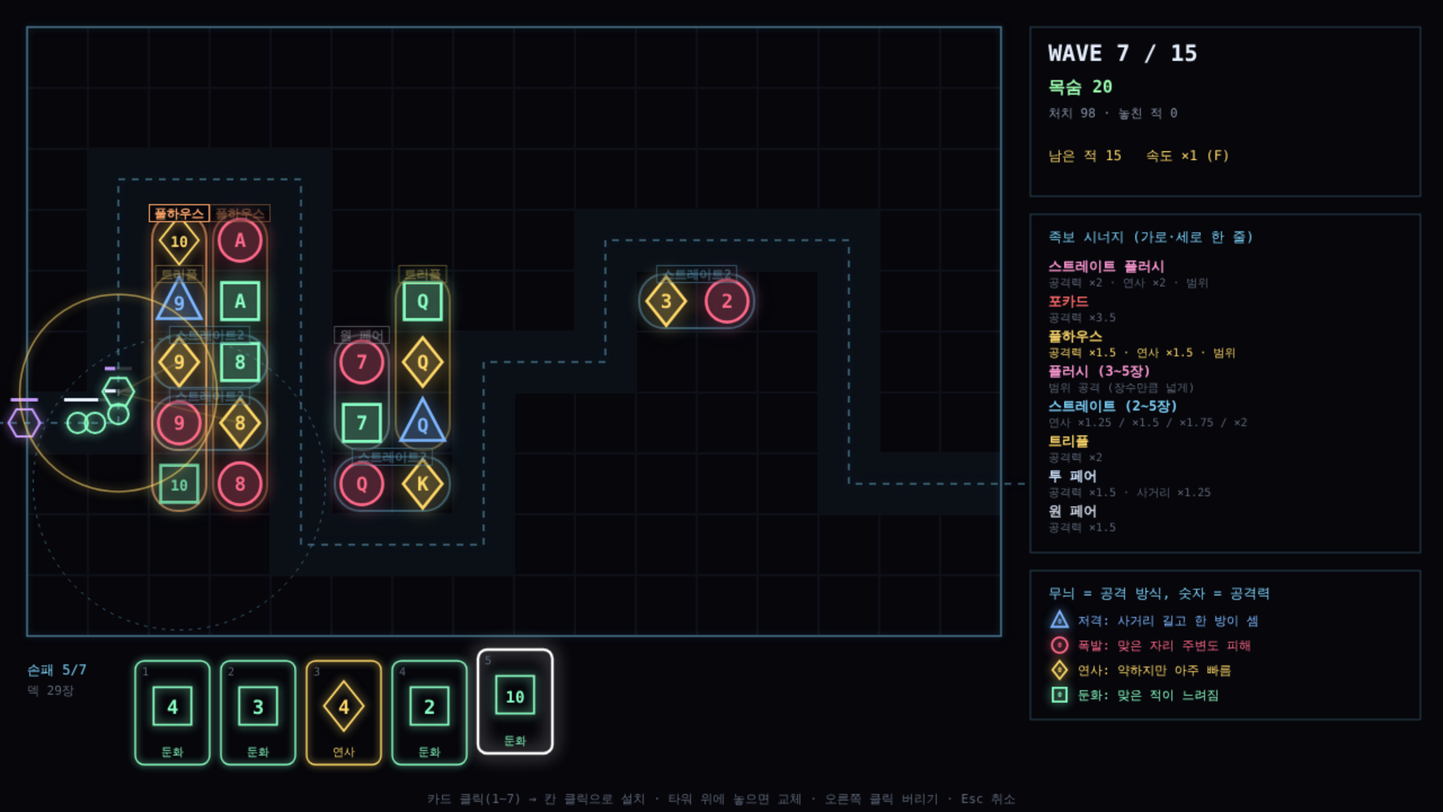
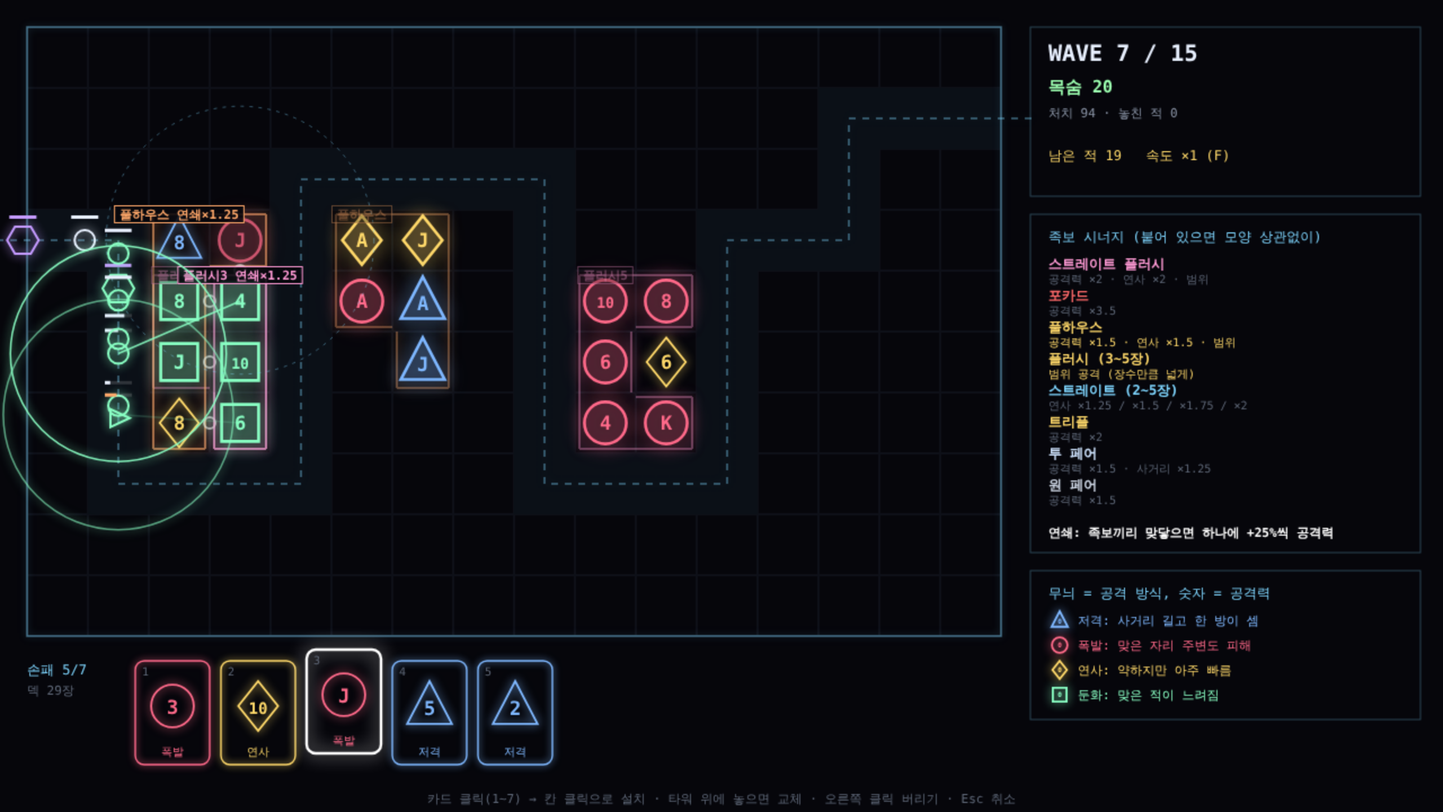
Poker Defense v1.2: shape-free hands and hand chains
- Any 4-connected group of 2-5 towers can form a hand (L, T, ...);
  each tower belongs to one hand, biggest hands picked first
- Touching hands form a chain: +25% damage per hand in the chain
- Hands drawn with cell-shaped outlines, chain links as white rings
- Preview cached per hovered cell; enemy HP growth x1.39 per wave
- Tests for L-shaped flush, chains, full house priority

Claude-Session: https://claude.ai/code/session_016SHfTFKWnAwehWcokYQwXR

diff --git a/prototype/poker-defense/index.html b/prototype/poker-defense/index.html
@@ -20,7 +20,8 @@
 // 포커 디펜스 (가칭) 프로토타입 v1: 핵심 루프만
 //  웨이브 사이에 카드를 뽑는다 → 카드를 맵에 놓아 타워로 세우거나 손에 아껴 둔다 → 웨이브를 막는다
 //  - 카드 한 장 = 타워 하나. 무늬 = 공격 방식, 숫자 = 공격력
-//  - 가로나 세로로 한 줄로 붙은 타워들이 족보가 되면 시너지 (가로·세로 둘 다 걸리면 둘 다 받음)
+//  - 상하좌우로 붙은 타워들이 족보가 되면 시너지 (ㄴ·ㄱ·T 등 모양 상관없음, 타워 하나는 족보 하나에만)
+//  - 족보끼리 맞닿으면 연쇄: 연쇄에 든 족보 수만큼 공격력 +25%씩
 //  - 족보마다 효과가 다르다: 페어 공격력, 스트레이트 연사, 플러시 범위, 풀하우스 범위+연사, 포카드 한 방
 // =====================================================================
 const cv = document.getElementById('c'), g = cv.getContext('2d');
@@ -72,22 +73,48 @@ function windowHands(cards) {
 }
 // 같은 족보라도 장수가 많으면 더 크게 친다 (플러시·스트레이트)
 const handValue = (key, n) => HANDS[key].val + (key === 'flush' || key === 'straight' ? (n - 3) * 22 : 0);
-// 줄(가로·세로)마다 연속된 타워 덩어리 안에서 겹치지 않게 큰 족보부터 고른다
-function synergies(towers) {
-  const lines = [];
-  for (let y = 0; y < ROWS; y++) { let run = []; for (let x = 0; x <= COLS; x++) { const t = towers.get(x + ',' + y); if (t) run.push(t); else { if (run.length >= 2) lines.push(run); run = []; } } }
-  for (let x = 0; x < COLS; x++) { let run = []; for (let y = 0; y <= ROWS; y++) { const t = towers.get(x + ',' + y); if (t) run.push(t); else { if (run.length >= 2) lines.push(run); run = []; } } }
-  const picked = [];
-  for (const run of lines) {
-    const cands = [];
-    for (let i = 0; i < run.length; i++) for (let n = 2; n <= 5 && i + n <= run.length; n++) {
-      const win = run.slice(i, i + n);
-      for (const key of windowHands(win.map(t => t.card))) cands.push({ key, i, n, val: handValue(key, n), towers: win });
+// 상하좌우로 붙은 타워 덩어리 안에서, 서로 붙어 있는 2~5장 묶음(모양 상관없음)을 전부 따져
+// 큰 족보부터 겹치지 않게 고른다. 타워 하나는 족보 하나에만 들어간다.
+const N4 = [[1, 0], [-1, 0], [0, 1], [0, -1]];
+const CHAIN_STEP = 0.25; // 연쇄: 맞닿은 족보 하나마다 공격력 +25%
+function connectedSubsets(list, kmax) {
+  // ESU 방식: 각 묶음을 한 번씩만 만든다 (시작점보다 번호가 큰 칸으로만 넓힘)
+  const idx = new Map(list.map((t, i) => [t.x + ',' + t.y, i]));
+  const nb = list.map(t => N4.map(([dx, dy]) => idx.get((t.x + dx) + ',' + (t.y + dy))).filter(v => v !== undefined));
+  const out = [];
+  function extend(sub, subSet, ext, v) {
+    if (sub.length >= 2) out.push(sub.slice());
+    if (sub.length === kmax) return;
+    const e = ext.slice();
+    while (e.length) {
+      const w = e.pop(); const nsub = sub.concat(w), nset = new Set(subSet); nset.add(w);
+      const near = new Set(); sub.forEach(u => nb[u].forEach(z => near.add(z)));
+      const next = e.concat(nb[w].filter(u => u > v && !nset.has(u) && !near.has(u) && !e.includes(u)));
+      extend(nsub, nset, next, v);
     }
+  }
+  for (let v = 0; v < list.length; v++) extend([v], new Set([v]), nb[v].filter(u => u > v), v);
+  return out.map(sub => sub.map(i => list[i]));
+}
+function synergies(towers) {
+  const seen = new Set(), picked = [];
+  for (const t0 of towers.values()) {
+    if (seen.has(t0)) continue;
+    const comp = [], st = [t0]; seen.add(t0);
+    while (st.length) { const t = st.pop(); comp.push(t); for (const [dx, dy] of N4) { const n = towers.get((t.x + dx) + ',' + (t.y + dy)); if (n && !seen.has(n)) { seen.add(n); st.push(n); } } }
+    if (comp.length < 2) continue;
+    const cands = [];
+    for (const grp of connectedSubsets(comp, 5)) for (const key of windowHands(grp.map(t => t.card))) cands.push({ key, n: grp.length, val: handValue(key, grp.length), towers: grp });
     cands.sort((a, b) => b.val - a.val || b.n - a.n);
     const used = new Set();
     for (const c of cands) { if (c.towers.some(t => used.has(t))) continue; c.towers.forEach(t => used.add(t)); picked.push(c); }
   }
+  // 연쇄: 족보끼리 맞닿아 있으면 하나의 연쇄 (가로세로 퍼즐처럼)
+  const owner = new Map(); picked.forEach((s, i) => s.towers.forEach(t => owner.set(t.x + ',' + t.y, i)));
+  const adj = picked.map(() => new Set()); picked.forEach((s, i) => s.towers.forEach(t => N4.forEach(([dx, dy]) => { const j = owner.get((t.x + dx) + ',' + (t.y + dy)); if (j !== undefined && j !== i) adj[i].add(j); })));
+  const chainOf = picked.map(() => -1); let cid = 0;
+  picked.forEach((_, i) => { if (chainOf[i] >= 0) return; const st = [i], mem = []; chainOf[i] = cid; while (st.length) { const k = st.pop(); mem.push(k); adj[k].forEach(j => { if (chainOf[j] < 0) { chainOf[j] = cid; st.push(j); } }); } mem.forEach(k => { picked[k].chain = mem.length; picked[k].chainId = cid; }); cid++; });
+  picked.forEach((s, i) => s.links = [...adj[i]].filter(j => j > i).map(j => picked[j]));
   return picked;
 }
 function applyEffects(towers) {
@@ -105,6 +132,7 @@ function applyEffects(towers) {
       case 'four': e.dmg *= 3.5; break;
       case 'straightFlush': e.dmg *= 2; e.rate *= 2; e.splash = Math.max(e.splash, 2); break;
     }
+    if (s.chain >= 2) { e.dmg *= 1 + CHAIN_STEP * (s.chain - 1); e.chain = s.chain; }
   }
   return syn;
 }
@@ -157,7 +185,7 @@ function newGame(start = false) {
 }
 function draw(n) { let got = 0; while (got < n && S.hand.length < HAND_MAX && S.deck.length) { S.hand.push(S.deck.pop()); got++; } return got; }
 function waveSpec(w) {
-  const list = [], hp = 26 * Math.pow(1.35, w - 1), n = 8 + w * 2;
+  const list = [], hp = 26 * Math.pow(1.39, w - 1), n = 8 + w * 2;
   for (let i = 0; i < n; i++) {
     let type = 'normal';
     if (w >= 3 && i % 4 === 3) type = 'fast';
@@ -182,7 +210,7 @@ function place(handIdx, x, y) {
   const key = x + ',' + y, old = S.towers.get(key), card = S.hand.splice(handIdx, 1)[0];
   if (old) { S.discarded++; popText(`${RANK_TXT(old.card.r)}${old.card.s} 교체`, ...center(x, y), '#8a94a6'); }
   const before = new Set(S.syn.map(s => s.key + s.towers.map(t => t.x + ',' + t.y).join()));
-  S.towers.set(key, { card, x, y, cd: 0, eff: null });
+  S.towers.set(key, { card, x, y, cd: 0, eff: null }); S.version = (S.version || 0) + 1;
   S.syn = applyEffects(S.towers);
   const fresh = S.syn.filter(s => !before.has(s.key + s.towers.map(t => t.x + ',' + t.y).join()) && s.towers.some(t => t.x === x && t.y === y));
   if (fresh.length) { const best = fresh.sort((a, b) => b.val - a.val)[0]; const [cx, cy] = midOf(best); popText(`${HANDS[best.key].name}${best.key === 'flush' || best.key === 'straight' ? ' ' + best.n : ''}!`, cx, cy - 18, HANDS[best.key].col, true);
@@ -245,20 +273,30 @@ function cardShape(card, cx, cy, r, o = {}) {
   text(RANK_TXT(card.r), cx, cy + (s.shape === 'tri' ? r * .38 : r * .3), s.col, Math.round(r * (card.r === 10 ? .62 : .78)), 'center', 'bold');
   g.globalAlpha = 1;
 }
-// 족보에 든 연속 칸들을 둥근 테두리 하나로 감싼다 (도형 안 숫자를 가리지 않게)
+// 족보에 든 칸들을 모양대로 감싼다: 바깥쪽 변에만 선 (도형 안 숫자를 가리지 않게)
 function drawSynLine(s, alpha = 1) {
-  const h = HANDS[s.key], xs = s.towers.map(t => t.x), ys = s.towers.map(t => t.y);
-  const x0 = FX + Math.min(...xs) * CS + 3, y0 = FY + Math.min(...ys) * CS + 3, w = (Math.max(...xs) - Math.min(...xs) + 1) * CS - 6, hh = (Math.max(...ys) - Math.min(...ys) + 1) * CS - 6;
-  g.globalAlpha = alpha; g.beginPath(); if (g.roundRect) g.roundRect(x0, y0, w, hh, CS * .42); else g.rect(x0, y0, w, hh);
-  g.shadowBlur = 0; g.fillStyle = h.col; g.globalAlpha = alpha * .07; g.fill();
-  g.globalAlpha = alpha; g.lineWidth = 2; glow(h.col, 10); g.stroke();
+  const h = HANDS[s.key], has = new Set(s.towers.map(t => t.x + ',' + t.y)), m = 4;
+  g.globalAlpha = alpha; g.lineWidth = 2; glow(h.col, 10); g.beginPath();
+  for (const t of s.towers) {
+    const L = !has.has((t.x - 1) + ',' + t.y), R = !has.has((t.x + 1) + ',' + t.y), U = !has.has(t.x + ',' + (t.y - 1)), D = !has.has(t.x + ',' + (t.y + 1));
+    const x0 = FX + t.x * CS + (L ? m : 0), x1 = FX + (t.x + 1) * CS - (R ? m : 0), y0 = FY + t.y * CS + (U ? m : 0), y1 = FY + (t.y + 1) * CS - (D ? m : 0);
+    g.save(); g.shadowBlur = 0; g.globalAlpha = alpha * .07; g.fillStyle = h.col; g.fillRect(x0, y0, x1 - x0, y1 - y0); g.restore();
+    if (U) { g.moveTo(x0, y0); g.lineTo(x1, y0); } if (D) { g.moveTo(x0, y1); g.lineTo(x1, y1); }
+    if (L) { g.moveTo(x0, y0); g.lineTo(x0, y1); } if (R) { g.moveTo(x1, y0); g.lineTo(x1, y1); }
+  }
+  g.stroke();
+  // 연쇄 연결 표시: 맞닿은 족보 사이 경계에 흰 고리
+  for (const o of s.links || []) for (const t of s.towers) for (const u of o.towers) if (Math.abs(t.x - u.x) + Math.abs(t.y - u.y) === 1) {
+    const [ax, ay] = center(t.x, t.y), [bx, by] = center(u.x, u.y), mx = (ax + bx) / 2, my = (ay + by) / 2;
+    g.lineWidth = 2; glow('#ffffff', 12); g.beginPath(); g.arc(mx, my, 5, 0, Math.PI * 2); g.stroke();
+  }
   g.globalAlpha = 1;
 }
 // 족보 이름표: 칸 가장자리에 어두운 바탕으로 (타워 위에 그려 읽기 쉽게)
 function drawSynBadge(s, alpha = 1) {
   // 테두리 위쪽 가장자리 가운데에 붙인다 (옆 줄을 가리지 않게)
-  const h = HANDS[s.key], mx = midOf(s)[0], top = FY + Math.min(...s.towers.map(t => t.y)) * CS + 3;
-  const label = `${h.name}${s.key === 'flush' || s.key === 'straight' ? s.n : ''}`;
+  const topT = s.towers.reduce((a, t) => t.y < a.y || (t.y === a.y && t.x < a.x) ? t : a), mx = center(topT.x, topT.y)[0], top = FY + topT.y * CS + 4, h = HANDS[s.key];
+  const label = `${h.name}${s.key === 'flush' || s.key === 'straight' ? s.n : ''}${s.chain >= 2 ? ` 연쇄×${1 + CHAIN_STEP * (s.chain - 1)}` : ''}`;
   g.font = 'bold 11px "DejaVu Sans Mono", "Noto Sans KR", monospace'; const w = g.measureText(label).width + 10, hh = 16;
   const bx = mx - w / 2, by = top - hh / 2;
   g.globalAlpha = alpha; g.shadowBlur = 0; g.fillStyle = 'rgba(6,6,11,.88)'; g.fillRect(bx, by, w, hh); g.strokeStyle = h.col; g.lineWidth = 1; g.strokeRect(bx + .5, by + .5, w - 1, hh - 1);
@@ -275,8 +313,14 @@ function render() {
   // 미리보기: 고른 카드를 마우스 칸에 놓으면
   let pvSyn = null, pvTower = null;
   if (S.sel >= 0 && S.hover && buildable(S.hover.x, S.hover.y) && S.phase !== 'title') {
-    const tw = new Map(S.towers); pvTower = { card: S.hand[S.sel], x: S.hover.x, y: S.hover.y }; tw.set(S.hover.x + ',' + S.hover.y, pvTower);
-    pvSyn = applyEffects(new Map([...tw].map(([k, t]) => [k, { ...t }]))).filter(s => s.towers.some(t => t.x === S.hover.x && t.y === S.hover.y));
+    pvTower = { card: S.hand[S.sel], x: S.hover.x, y: S.hover.y };
+    const key = `${S.version}|${S.sel}|${S.hand.length}|${S.hover.x},${S.hover.y}`;
+    if (S.pvKey !== key) { // 마우스가 칸을 옮길 때만 다시 계산
+      const tw = new Map([...S.towers].map(([k, t]) => [k, { ...t }])); tw.set(S.hover.x + ',' + S.hover.y, { ...pvTower });
+      const all = applyEffects(tw), mine = all.filter(s => s.towers.some(t => t.x === S.hover.x && t.y === S.hover.y));
+      const chainIds = new Set(mine.map(s => s.chainId)); S.pvKey = key; S.pvSyn = all.filter(s => chainIds.has(s.chainId));
+    }
+    pvSyn = S.pvSyn;
   }
   // 시너지 선
   S.syn.forEach(s => drawSynLine(s, pvSyn && pvSyn.length ? .35 : 1));
@@ -321,16 +365,17 @@ function render() {
   text(`처치 ${S.kills} · 놓친 적 ${S.leaks}`, RX + 16, FY + 80, '#8a94a6', 11);
   if (S.phase === 'build') { const bx = RX + 16, by = FY + 96, on = (S.now * 2 | 0) % 2; g.lineWidth = 1.6; glow('#9cffb0', on ? 14 : 6); g.strokeRect(bx, by, 200, 38); text(`웨이브 ${S.wave + 1} 시작 (Space)`, bx + 100, by + 25, '#9cffb0', 13, 'center', 'bold'); }
   else if (S.phase === 'wave') text(`남은 적 ${S.enemies.length + S.spawn.length}   속도 ×${S.speed} (F)`, RX + 16, FY + 118, '#ffd96a', 12);
-  panel(RX, FY + 166, W - RX - 20, 300); text('족보 시너지 (가로·세로 한 줄)', RX + 16, FY + 190, '#7fd6ff', 12);
+  panel(RX, FY + 166, W - RX - 20, 300); text('족보 시너지 (붙어 있으면 모양 상관없이)', RX + 16, FY + 190, '#7fd6ff', 12);
   const pvKeys = new Set((pvSyn || []).map(s => s.key));
-  HAND_ORDER.forEach((k, i) => { const h = HANDS[k], y = FY + 216 + i * 31, on = pvKeys.has(k);
-    text(h.name + (k === 'flush' ? ' (3~5장)' : k === 'straight' ? ' (2~5장)' : ''), RX + 16, y, on ? '#ffd96a' : h.col, 12, 'left', 'bold'); text(h.eff, RX + 16, y + 14, on ? '#ffd96a' : '#5f6878', 10); });
+  HAND_ORDER.forEach((k, i) => { const h = HANDS[k], y = FY + 214 + i * 28, on = pvKeys.has(k);
+    text(h.name + (k === 'flush' ? ' (3~5장)' : k === 'straight' ? ' (2~5장)' : ''), RX + 16, y, on ? '#ffd96a' : h.col, 12, 'left', 'bold'); text(h.eff, RX + 16, y + 13, on ? '#ffd96a' : '#5f6878', 10); });
+  text(`연쇄: 족보끼리 맞닿으면 하나에 +${CHAIN_STEP * 100}%씩 공격력`, RX + 16, FY + 452, '#ffffff', 11, 'left', 'bold');
   panel(RX, FY + 482, W - RX - 20, 132); text('무늬 = 공격 방식, 숫자 = 공격력', RX + 16, FY + 506, '#7fd6ff', 12);
   SUITS.forEach((s, i) => { const y = FY + 530 + i * 22; cardShape({ r: 0, s }, RX + 26, y - 4, 8); text(`${SUIT[s].name}: ${SUIT[s].desc}`, RX + 42, y, SUIT[s].col, 11); });
   text('카드 클릭(1~7) → 칸 클릭으로 설치 · 타워 위에 놓으면 교체 · 오른쪽 클릭 버리기 · Esc 취소', W / 2, H - 8, '#5f6878', 11, 'center');
 
   const overlay = (title, col, lines, foot) => { g.fillStyle = 'rgba(6,6,11,.88)'; g.fillRect(0, 0, W, H); text(title, W / 2, 240, col, 34, 'center', 'bold'); lines.forEach((l, i) => text(l, W / 2, 290 + i * 26, '#cfd8e6', 14, 'center')); text(foot, W / 2, 300 + lines.length * 26 + 50, '#ffd96a', 18, 'center'); };
-  if (S.phase === 'title') overlay('POKER DEFENSE', '#7fd6ff', ['카드 한 장이 타워 하나. 무늬는 공격 방식, 숫자는 공격력', '가로나 세로로 한 줄로 붙은 타워들이 포커 족보가 되면 시너지가 생긴다', `웨이브를 막을 때마다 카드 ${DRAW_PER_WAVE}장. 지금 놓을지, 아껴서 큰 족보를 노릴지!`], 'Enter 키 또는 화면을 눌러 시작');
+  if (S.phase === 'title') overlay('POKER DEFENSE', '#7fd6ff', ['카드 한 장이 타워 하나. 무늬는 공격 방식, 숫자는 공격력', '붙어 있는 타워들이 포커 족보가 되면 시너지 (모양 상관없이). 족보끼리 맞닿으면 연쇄 보너스', `웨이브를 막을 때마다 카드 ${DRAW_PER_WAVE}장. 지금 놓을지, 아껴서 큰 족보를 노릴지!`], 'Enter 키 또는 화면을 눌러 시작');
   else if (S.phase === 'over') overlay('GAME OVER', '#ff6a6a', [`웨이브 ${S.wave}에서 무너졌다 · 처치 ${S.kills}`], 'R 키 또는 화면을 눌러 다시');
   else if (S.phase === 'win') overlay('ALL CLEAR', '#ffd96a', [`${WAVES} 웨이브를 모두 막았다 · 남은 목숨 ${S.lives} · 처치 ${S.kills}`], 'R 키 또는 화면을 눌러 다시');
 }

diff --git a/prototype/poker-defense/test.js b/prototype/poker-defense/test.js
@@ -1,5 +1,5 @@
 // 실행: node prototype/poker-defense/test.js "$(pwd)/prototype/poker-defense/index.html" [봇 판 수]
-// 족보 판정, 줄 시너지(가로·세로 겹침, 큰 족보 우선), 설치·교체, 봇 시험
+// 족보 판정, 붙은 모양 시너지(ㄴ자), 연쇄, 큰 족보 우선, 설치·교체, 무작위 길, 봇 시험
 // 봇: 손패를 전부, 길을 많이 덮고 시너지가 커지는 자리에 하나씩 놓는다 (아끼지 않음)
 // 4번째 인자 dumb: 족보를 생각하지 않고 길 근처 빈칸에 아무렇게나 놓는 봇 (비교용)
 const { chromium } = require('playwright');
@@ -26,11 +26,20 @@ const { chromium } = require('playwright');
     t('포카드', [c(5), c(5, '♥'), c(5, '♦'), c(5, '♣')], 'four');
     t('풀하우스', [c(5), c(9, '♥'), c(5, '♦'), c(9), c(5, '♣')], 'fullHouse');
     t('스트레이트 플러시', [c(5), c(6), c(7), c(8), c(9)], 'flush,straight,straightFlush');
-    // 줄 시너지: 가로 페어 + 세로 플러시가 한 타워에서 겹친다
-    const tw = new Map(); const put = (x, y, card) => tw.set(x + ',' + y, { card, x, y });
-    put(0, 0, c(7, '♥')); put(1, 0, c(7, '♠')); put(0, 1, c(2, '♥')); put(0, 2, c(11, '♥'));
-    const syn = A.applyEffects(tw); const corner = tw.get('0,0');
-    const crossOk = syn.length === 2 && corner.eff.hands.sort().join() === 'flush,pair' && corner.eff.dmg === 1.5 && corner.eff.splash === 1.25;
+    // ㄴ자 플러시: 하트 3장이 꺾여 붙어도 플러시
+    const tw = new Map(); const put = (m, x, y, card) => m.set(x + ',' + y, { card, x, y });
+    put(tw, 0, 0, c(7, '♥')); put(tw, 0, 1, c(2, '♥')); put(tw, 1, 1, c(11, '♥'));
+    const lOk = A.applyEffects(tw).map(s => s.key + s.n).join() === 'flush3';
+    // 연쇄: 스트레이트(7 8)와 트리플(5 5 5)이 맞닿으면 둘 다 연쇄 2 → 공격력 ×1.25 추가
+    // (7 7 5 5 5 였다면 풀하우스 하나가 더 크므로 그것을 고른다)
+    const tc = new Map(); put(tc, 0, 3, c(7)); put(tc, 1, 3, c(8, '♥')); put(tc, 2, 3, c(5)); put(tc, 3, 3, c(5, '♥')); put(tc, 4, 3, c(5, '♦'));
+    const syn2 = A.applyEffects(tc);
+    const fh = new Map(); put(fh, 0, 3, c(7)); put(fh, 1, 3, c(7, '♥')); put(fh, 2, 3, c(5)); put(fh, 3, 3, c(5, '♥')); put(fh, 4, 3, c(5, '♦'));
+    const crossOk = syn2.length === 2 && syn2.every(s => s.chain === 2) && tc.get('0,3').eff.dmg === 1.25 && tc.get('4,3').eff.dmg === 2 * 1.25
+      && A.applyEffects(fh).map(s => s.key).join() === 'fullHouse';
+    // 떨어져 있으면 연쇄 아님
+    const td = new Map(); put(td, 0, 6, c(7)); put(td, 1, 6, c(7, '♥')); put(td, 3, 6, c(5)); put(td, 4, 6, c(5, '♥'));
+    const noChainOk = A.applyEffects(td).every(s => s.chain === 1);
     // 큰 족보 우선: 7 7 7 이 한 줄이면 페어가 아니라 트리플
     const tw2 = new Map(); [0, 1, 2].forEach(x => tw2.set(x + ',5', { card: c(7, ['♠', '♥', '♦'][x]), x, y: 5 }));
     const tripleOk = A.applyEffects(tw2).map(s => s.key).join() === 'triple';
@@ -58,7 +67,11 @@ const { chromium } = require('playwright');
         }
         while (gg.hand.length) {
           let best = null;
-          for (let i = 0; i < gg.hand.length; i++) for (const [x, y] of cells) { if (gg.towers.has(x + ',' + y)) continue;
+          const free = cells.filter(([x, y]) => !gg.towers.has(x + ',' + y));
+          const nearT = free.filter(([x, y]) => [[1, 0], [-1, 0], [0, 1], [0, -1]].some(([dx, dy]) => gg.towers.has((x + dx) + ',' + (y + dy))));
+          const topCov = free.slice().sort((a, b) => coverage(b[0], b[1], 2.4) - coverage(a[0], a[1], 2.4)).slice(0, 14);
+          const cand = [...new Set([...nearT, ...topCov])];
+          for (let i = 0; i < gg.hand.length; i++) for (const [x, y] of cand) {
             const tw3 = new Map([...gg.towers].map(([k, v]) => [k, { ...v }])); tw3.set(x + ',' + y, { card: gg.hand[i], x, y }); const v = power(tw3); if (!best || v > best.v) best = { v, i, x, y }; }
           if (!best) break; A.place(best.i, best.x, best.y);
         }
@@ -67,7 +80,7 @@ const { chromium } = require('playwright');
       res.push({ wave: gg.phase === 'win' ? 16 : gg.wave, lives: gg.lives, towers: gg.towers.size, hands: gg.syn.map(s => s.key) });
     }
     const hist = {}; res.forEach(x => hist[x.wave] = (hist[x.wave] || 0) + 1);
-    return { cases, allOk: cases.every(x => x.ok), pathOk, crossOk, tripleOk, placeOk, replaceOk, bot: { reachedWave: hist, avgLives: Math.round(res.reduce((a, x) => a + x.lives, 0) / res.length * 10) / 10, sampleHands: res[0].hands } };
+    return { cases, allOk: cases.every(x => x.ok), pathOk, lOk, crossOk, noChainOk, tripleOk, placeOk, replaceOk, bot: { reachedWave: hist, avgLives: Math.round(res.reduce((a, x) => a + x.lives, 0) / res.length * 10) / 10, sampleHands: res[0].hands } };
   }, [+(process.argv[3] || 10), process.argv[4] === 'dumb']);
   console.log(JSON.stringify({ ...out, cases: out.cases.filter(x => !x.ok) }, null, 1)); console.log('errors:', errors.length ? errors : 'none'); await b.close();
 })();

diff --git a/prototype/poker-defense/README.md b/prototype/poker-defense/README.md
@@ -3,12 +3,13 @@
 카드로 타워를 세우는 디펜스. 핵심 루프만 만든 첫 프로토타입이다. 기획 메모는 [docs/14-poker-defense.md](../../docs/14-poker-defense.md).
 
 - 카드 한 장 = 타워 하나. **무늬 = 공격 방식, 숫자 = 공격력** (2~10, J Q K A = 11~14)
-- **가로나 세로로 한 줄로 붙은 타워들**이 포커 족보가 되면 시너지. 가로·세로 둘 다 걸리면 효과를 둘 다 받는다
+- **상하좌우로 붙어 있는 타워들**이 포커 족보가 되면 시너지 (ㄴ·ㄱ·T자 등 모양 상관없음). 타워 하나는 족보 하나에만 들어간다
+- **연쇄**: 족보끼리 맞닿아 있으면 하나의 연쇄. 연쇄에 든 족보 수만큼 공격력 +25%씩 (2개 ×1.25, 3개 ×1.5 ...)
 - 웨이브를 막을 때마다 카드 3장 (처음 5장, 손패 최대 7장, 덱 52장)
 - 카드를 지금 놓을지, 손에 들고 큰 족보를 노릴지 고른다. 타워 위에 놓으면 교체 (원래 카드는 버려짐)
 - 15웨이브, 목숨 20. 5·10·15웨이브는 보스
 - **길은 판마다 무작위** (왼쪽에서 들어와 오른쪽으로 나가는 지그재그, 길이 34~46칸)
-- 족보에 든 타워들은 둥근 테두리로 묶어 보여 준다
+- 족보에 든 칸은 모양대로 테두리, 맞닿은 족보 사이에는 흰 고리(연쇄)
 
 ![포커 디펜스](../../docs/images/prototype-poker-defense.png)
 
@@ -20,7 +21,7 @@
 | ♦ | 노란 마름모 | 연사: 약하지만 아주 빠름 |
 | ♣ | 초록 사각형 | 둔화: 맞은 적이 느려짐 |
 
-## 족보 = 시너지 (한 줄 안의 연속 2~5장, 순서 상관없음)
+## 족보 = 시너지 (붙어 있는 2~5장, 모양·순서 상관없음)
 | 족보 | 장수 | 효과 |
 |---|---|---|
 | 원 페어 | 2 | 공격력 ×1.5 |
@@ -32,7 +33,7 @@
 | 포카드 | 4 | 공격력 ×3.5 |
 | 스트레이트 플러시 | 5 | 공격력 ×2, 연사 ×2, 범위 |
 
-한 줄에 여러 족보가 가능하면 큰 족보부터 겹치지 않게 고른다. A는 A-2-3, Q-K-A 둘 다 스트레이트.
+붙은 덩어리 안에서 큰 족보부터 겹치지 않게 고른다 (7 7 5 5 5 는 페어+트리플이 아니라 풀하우스). A는 A-2-3, Q-K-A 둘 다 스트레이트.
 
 ## 조작
 | 입력 | 동작 |
@@ -45,12 +46,12 @@
 | Esc / M | 취소 / 소리 |
 
 ## 시험
-`test.js`: 족보 판정 14가지, 무작위 길 200개 검사, 가로·세로 겹침, 큰 족보 우선, 설치·교체, 봇 시험.
+`test.js`: 족보 판정 14가지, 무작위 길 200개 검사, ㄴ자 족보, 연쇄(맞닿음/떨어짐), 큰 족보 우선, 설치·교체, 봇 시험.
 
 | 봇 (10판, 무작위 길) | 결과 |
 |---|---|
-| 족보를 생각하는 봇 (손패를 전부, 길을 많이 덮고 시너지가 커지는 자리에) | 6판 통과, 4판 15웨이브에서 실패, 남은 목숨 평균 6.9 |
-| 족보를 생각 안 하는 봇 (길 근처 아무 칸) | 11웨이브 6판, 12웨이브 4판에서 실패 |
+| 족보를 생각하는 봇 (손패를 전부, 길을 많이 덮고 시너지가 커지는 자리에) | 5판 통과, 3판 15웨이브, 1판 14, 1판 13에서 실패, 남은 목숨 평균 5 |
+| 족보를 생각 안 하는 봇 (길 근처 아무 칸) | 10웨이브 3판, 11웨이브 7판에서 실패 |
 
 족보를 생각하느냐에 따라 결과가 갈린다. 봇은 카드를 아끼지 않고 바로 놓는다.
 효과음은 테트리스 포커와 같은 합성음(`../tetris-poker/sounds.js`).

diff --git a/docs/14-poker-defense.md b/docs/14-poker-defense.md
@@ -31,8 +31,8 @@
 | 미정 사항 | v1 기본값 | 이유 |
 |---|---|---|
 | 시너지 단위 | 카드 한 장 = 타워 + 인접 시너지 | 메모 추천안 |
-| 인접 판정 | 가로·세로 한 줄로 붙은 연속 2~5장. 가로·세로 둘 다 걸리면 효과 둘 다 | 줄이 눈에 보여 족보 읽기가 가장 쉬움. 교차점이 배치 고민거리 |
-| 한 줄의 족보 고르기 | 큰 족보부터 겹치지 않게 | 7 7 7이면 페어가 아니라 트리플 |
+| 인접 판정 | (v1.2) 상하좌우로 붙은 2~5장, 모양 상관없음. 타워 하나는 족보 하나에만 | v1은 가로·세로 한 줄이었으나 ㄴ자로 놓아도 안 되는 게 어색하다는 피드백 |
+| 덩어리 안 족보 고르기 | 큰 족보부터 겹치지 않게 | 7 7 7이면 페어가 아니라 트리플, 7 7 5 5 5면 풀하우스 |
 | 플러시·스트레이트 장수 | 플러시 3~5장, 스트레이트 2~5장. 장수가 많을수록 강함 | 5장만 인정하면 초반에 거의 안 나옴. 이어진 숫자 2장도 효과가 있어야 페어와 맞음 (사용자 피드백) |
 | 덱 구조 | 고정 52장 (A~K × 4무늬) | 루프 손맛 확인이 먼저. 덱빌딩은 다음 |
 | 맵 | 판마다 무작위 지그재그 길 (길이 34~46칸) + 길 아닌 칸 자유 배치, 16 × 10칸 | 사용자 요청. 판마다 배치 고민이 달라짐. 길이 범위로 난이도 흔들림을 줄임 |
@@ -68,3 +68,15 @@
 | (같이 손봄) 시너지 선이 도형 숫자를 가림 | 족보에 든 칸들을 둥근 테두리로 감싸고 이름표는 테두리 위쪽에 |
 
 봇 10판 (무작위 길, 적 체력 웨이브마다 ×1.35): 족보를 생각하는 봇 6판 통과·4판 15웨이브 실패, 생각 안 하는 봇은 11~12웨이브 실패.
+
+## 10. v1.2: 모양 상관없는 족보 + 연쇄
+피드백: ㄴ자로 배치하면 족보가 안 되나? → B안(모양 상관없이)으로, 가로세로 퍼즐처럼 연결되면 연쇄 효과도.
+
+| 결정 | 이유 |
+|---|---|
+| 상하좌우로 붙은 2~5장이면 모양 상관없이 족보 | 붙여 놓으면 족보가 되는 게 자연스러운 손놀림 |
+| 덩어리 안 모든 연결 묶음(최대 5장)을 따져 큰 족보부터, 겹치지 않게 | 타워 하나 = 족보 하나. 덩어리를 어떻게 나눌지가 고민거리 |
+| 연쇄: 맞닿은 족보들은 하나의 연쇄, 족보 하나마다 공격력 +25% | 가로세로 퍼즐처럼 족보를 이어 붙이는 재미. 큰 덩어리를 만들수록 이득 |
+| 가로·세로 겹침 보너스 삭제 | 타워 하나가 족보 하나에만 들어가므로. 연쇄가 그 역할을 대신 |
+| 표시: 칸 모양대로 테두리, 연쇄 연결은 경계의 흰 고리, 이름표에 "연쇄×1.25" | 덩어리가 커져도 족보 경계가 보이게 |
+| 적 체력 웨이브마다 ×1.39 | 모양 자유 + 연쇄로 봇이 너무 강해져서 (10판 전승, 목숨 13.7 → 5판 통과) |

diff --git a/docs/05-decision-log.md b/docs/05-decision-log.md
@@ -62,3 +62,4 @@
 | D-056 | 2026-11-08 | 스택 포커 카드 크기 168×46 (한 줄 최대 12장), 패널 축소, 데스크톱 화면 여백 제거, 내려오는 속도 소폭 감소 | 사용자 피드백: 클릭이 힘듦 | 142×38 카드 |
 | D-057 | 2026-11-08 | 포커 디펜스(가칭) 시작: 카드 한 장 = 타워, 가로·세로 한 줄로 붙은 타워의 족보로 시너지(족보마다 다른 효과), 정해진 길, 고정 52장, 웨이브마다 3장. 스택 포커는 보류 | 다른 세션 기획 메모. 스택 포커는 족보를 눈으로 찾는 게 노동에 가까움. 디펜스는 웨이브 사이 템포가 패 고민과 맞음 | 스택 포커 계속, 테트리스 디펜스 |
 | D-058 | 2026-11-08 | 포커 디펜스: 스트레이트 2장부터(연사 ×1.25), 판마다 무작위 지그재그 길(길이 34~46칸), 시너지 표시는 둥근 테두리, 적 체력 ×1.35/웨이브 | 사용자 피드백 (이어진 숫자 2장 처리, 랜덤 길) | 스트레이트 3장부터, 고정 길 |
+| D-059 | 2026-11-08 | 포커 디펜스 v1.2: 족보는 상하좌우로 붙은 2~5장이면 모양 상관없음(타워 하나 = 족보 하나), 맞닿은 족보끼리 연쇄(족보 하나마다 공격력 +25%), 가로·세로 겹침 보너스 삭제, 적 체력 ×1.39/웨이브 | 사용자 피드백: ㄴ자 배치도 족보가 되게, 가로세로 퍼즐처럼 연결되면 연쇄 | 가로·세로 한 줄만(A안) |
